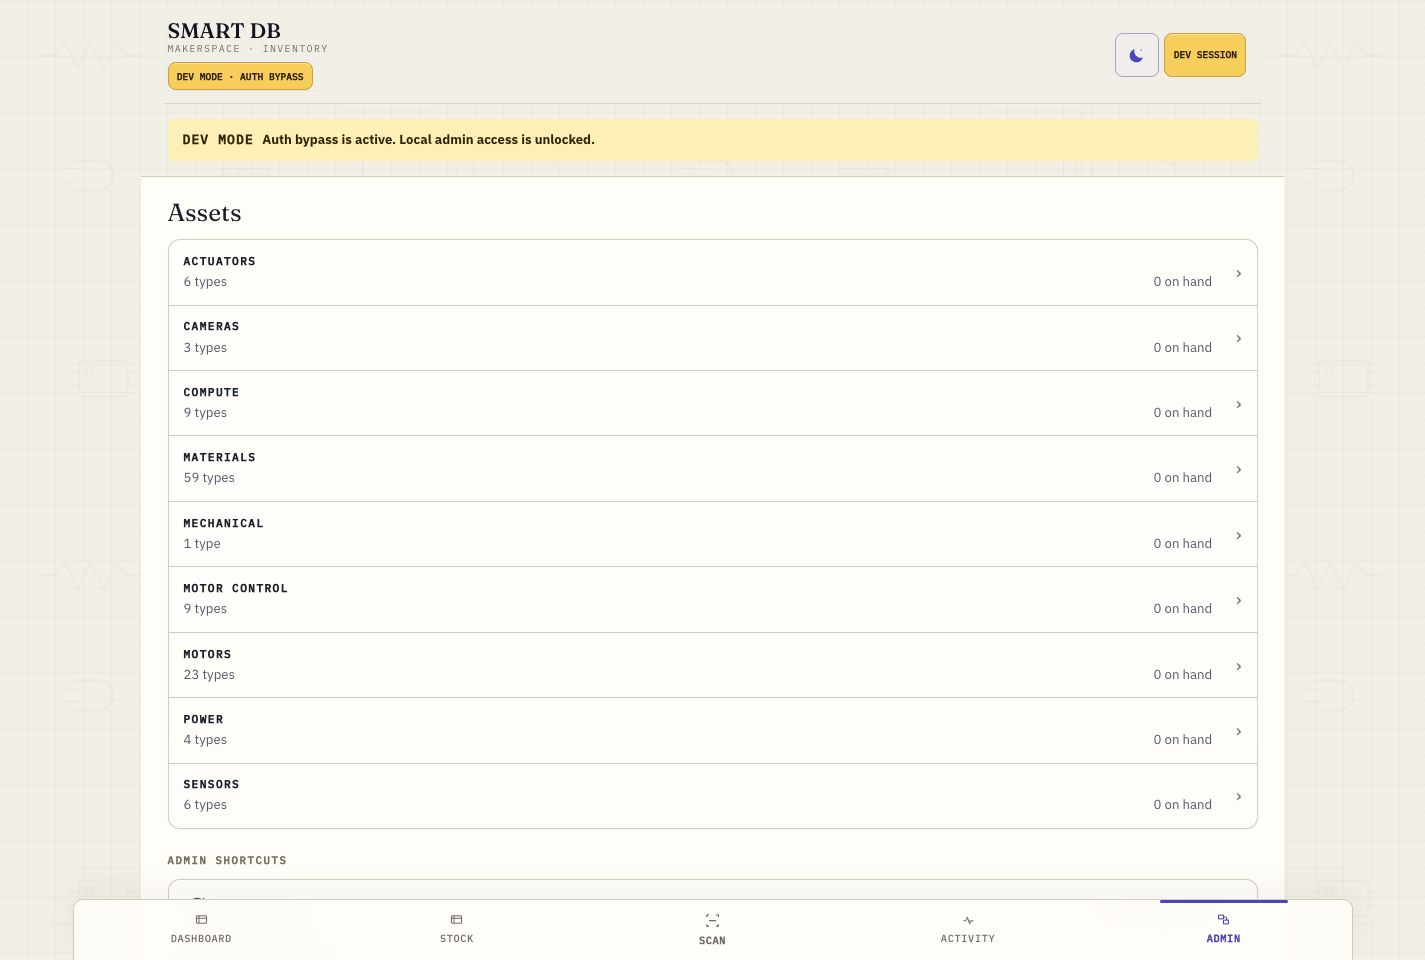
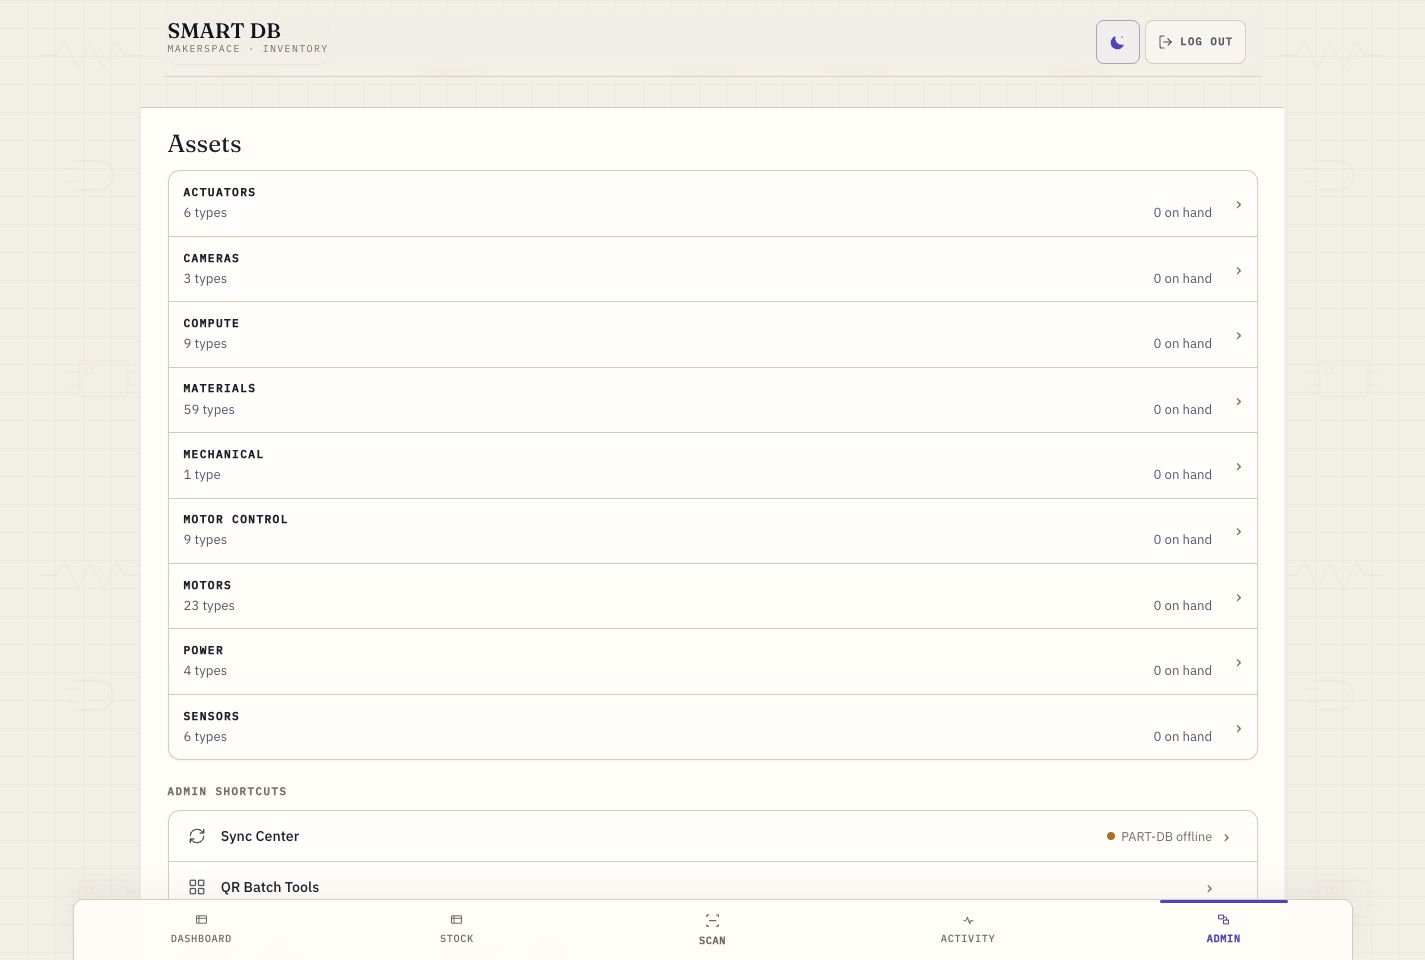
docs(readme): replace dev-mode screenshots (@user)

diff --git a/README.md b/README.md
@@ -24,7 +24,7 @@ Part-DB remains the richer catalog and reporting surface. Smart DB is the fast f
   <img src="docs/images/readme/desktop-admin.png" alt="Smart DB desktop admin asset categories" width="860" />
 </p>
 
-The screenshots above were captured from local dev mode, so the yellow auth-bypass banner is intentionally visible. Production builds use the same responsive shell without the dev-mode warning.
+The screenshots above were captured from a local authenticated session with the standard catalog seeded.
 
 ## What It Handles
 